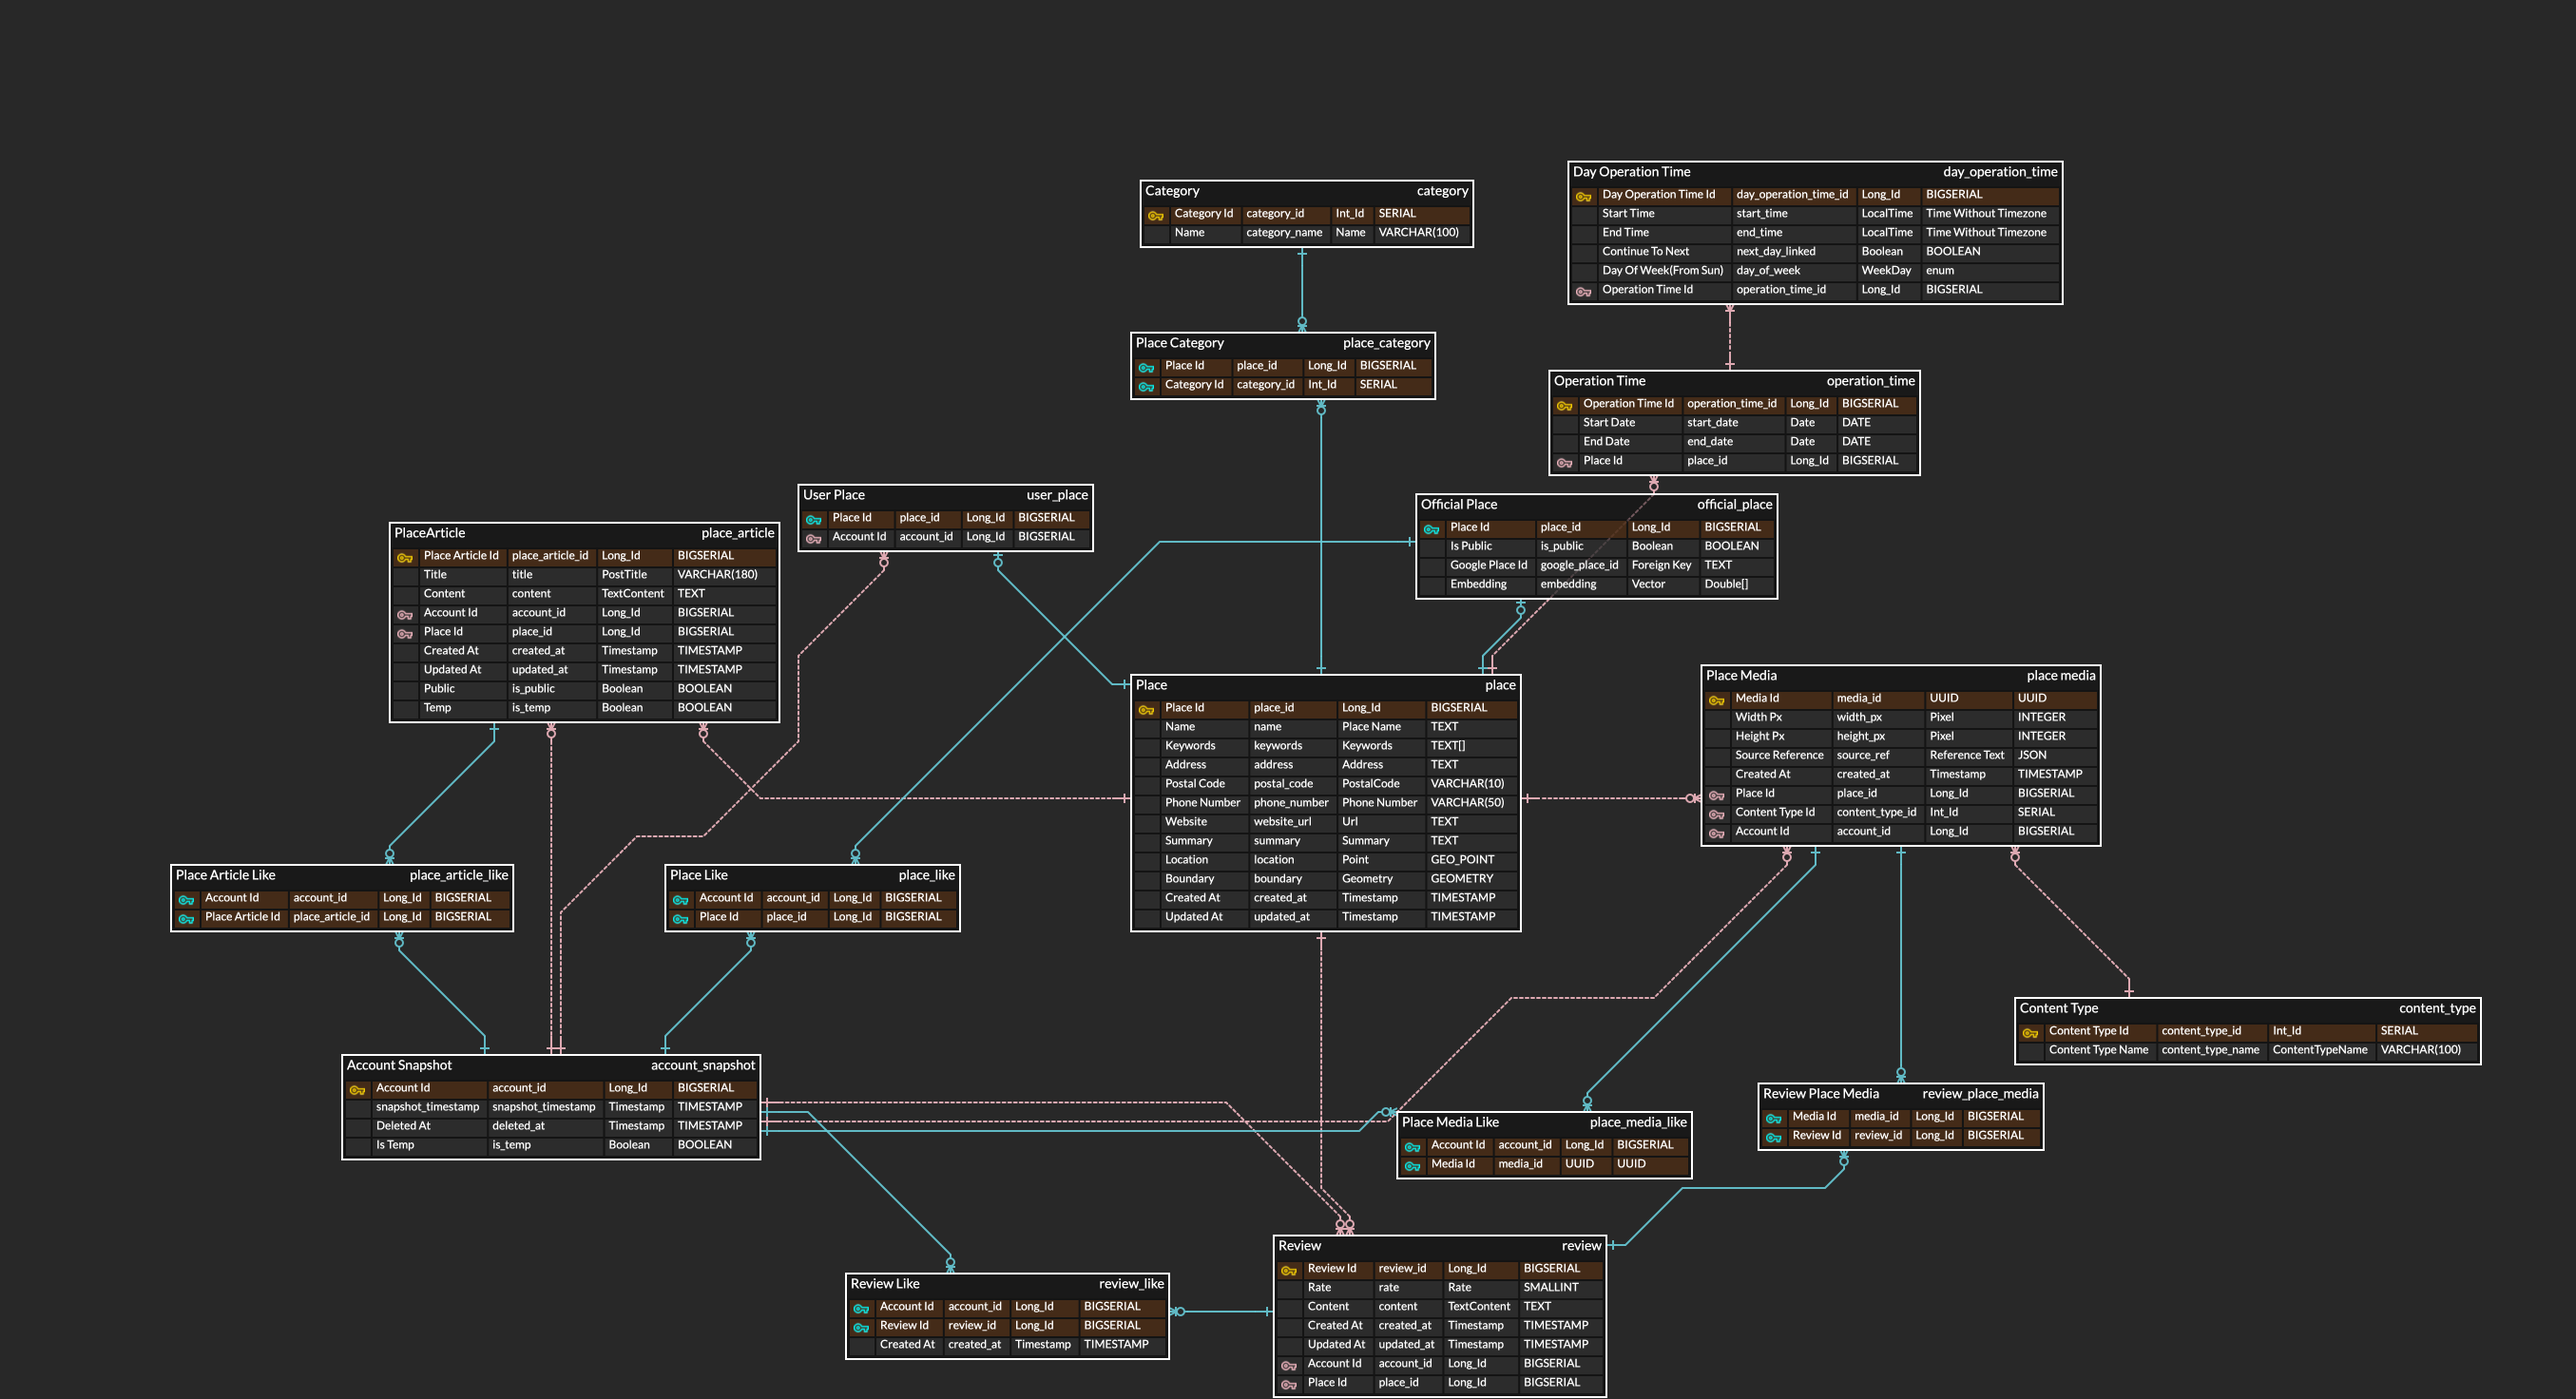
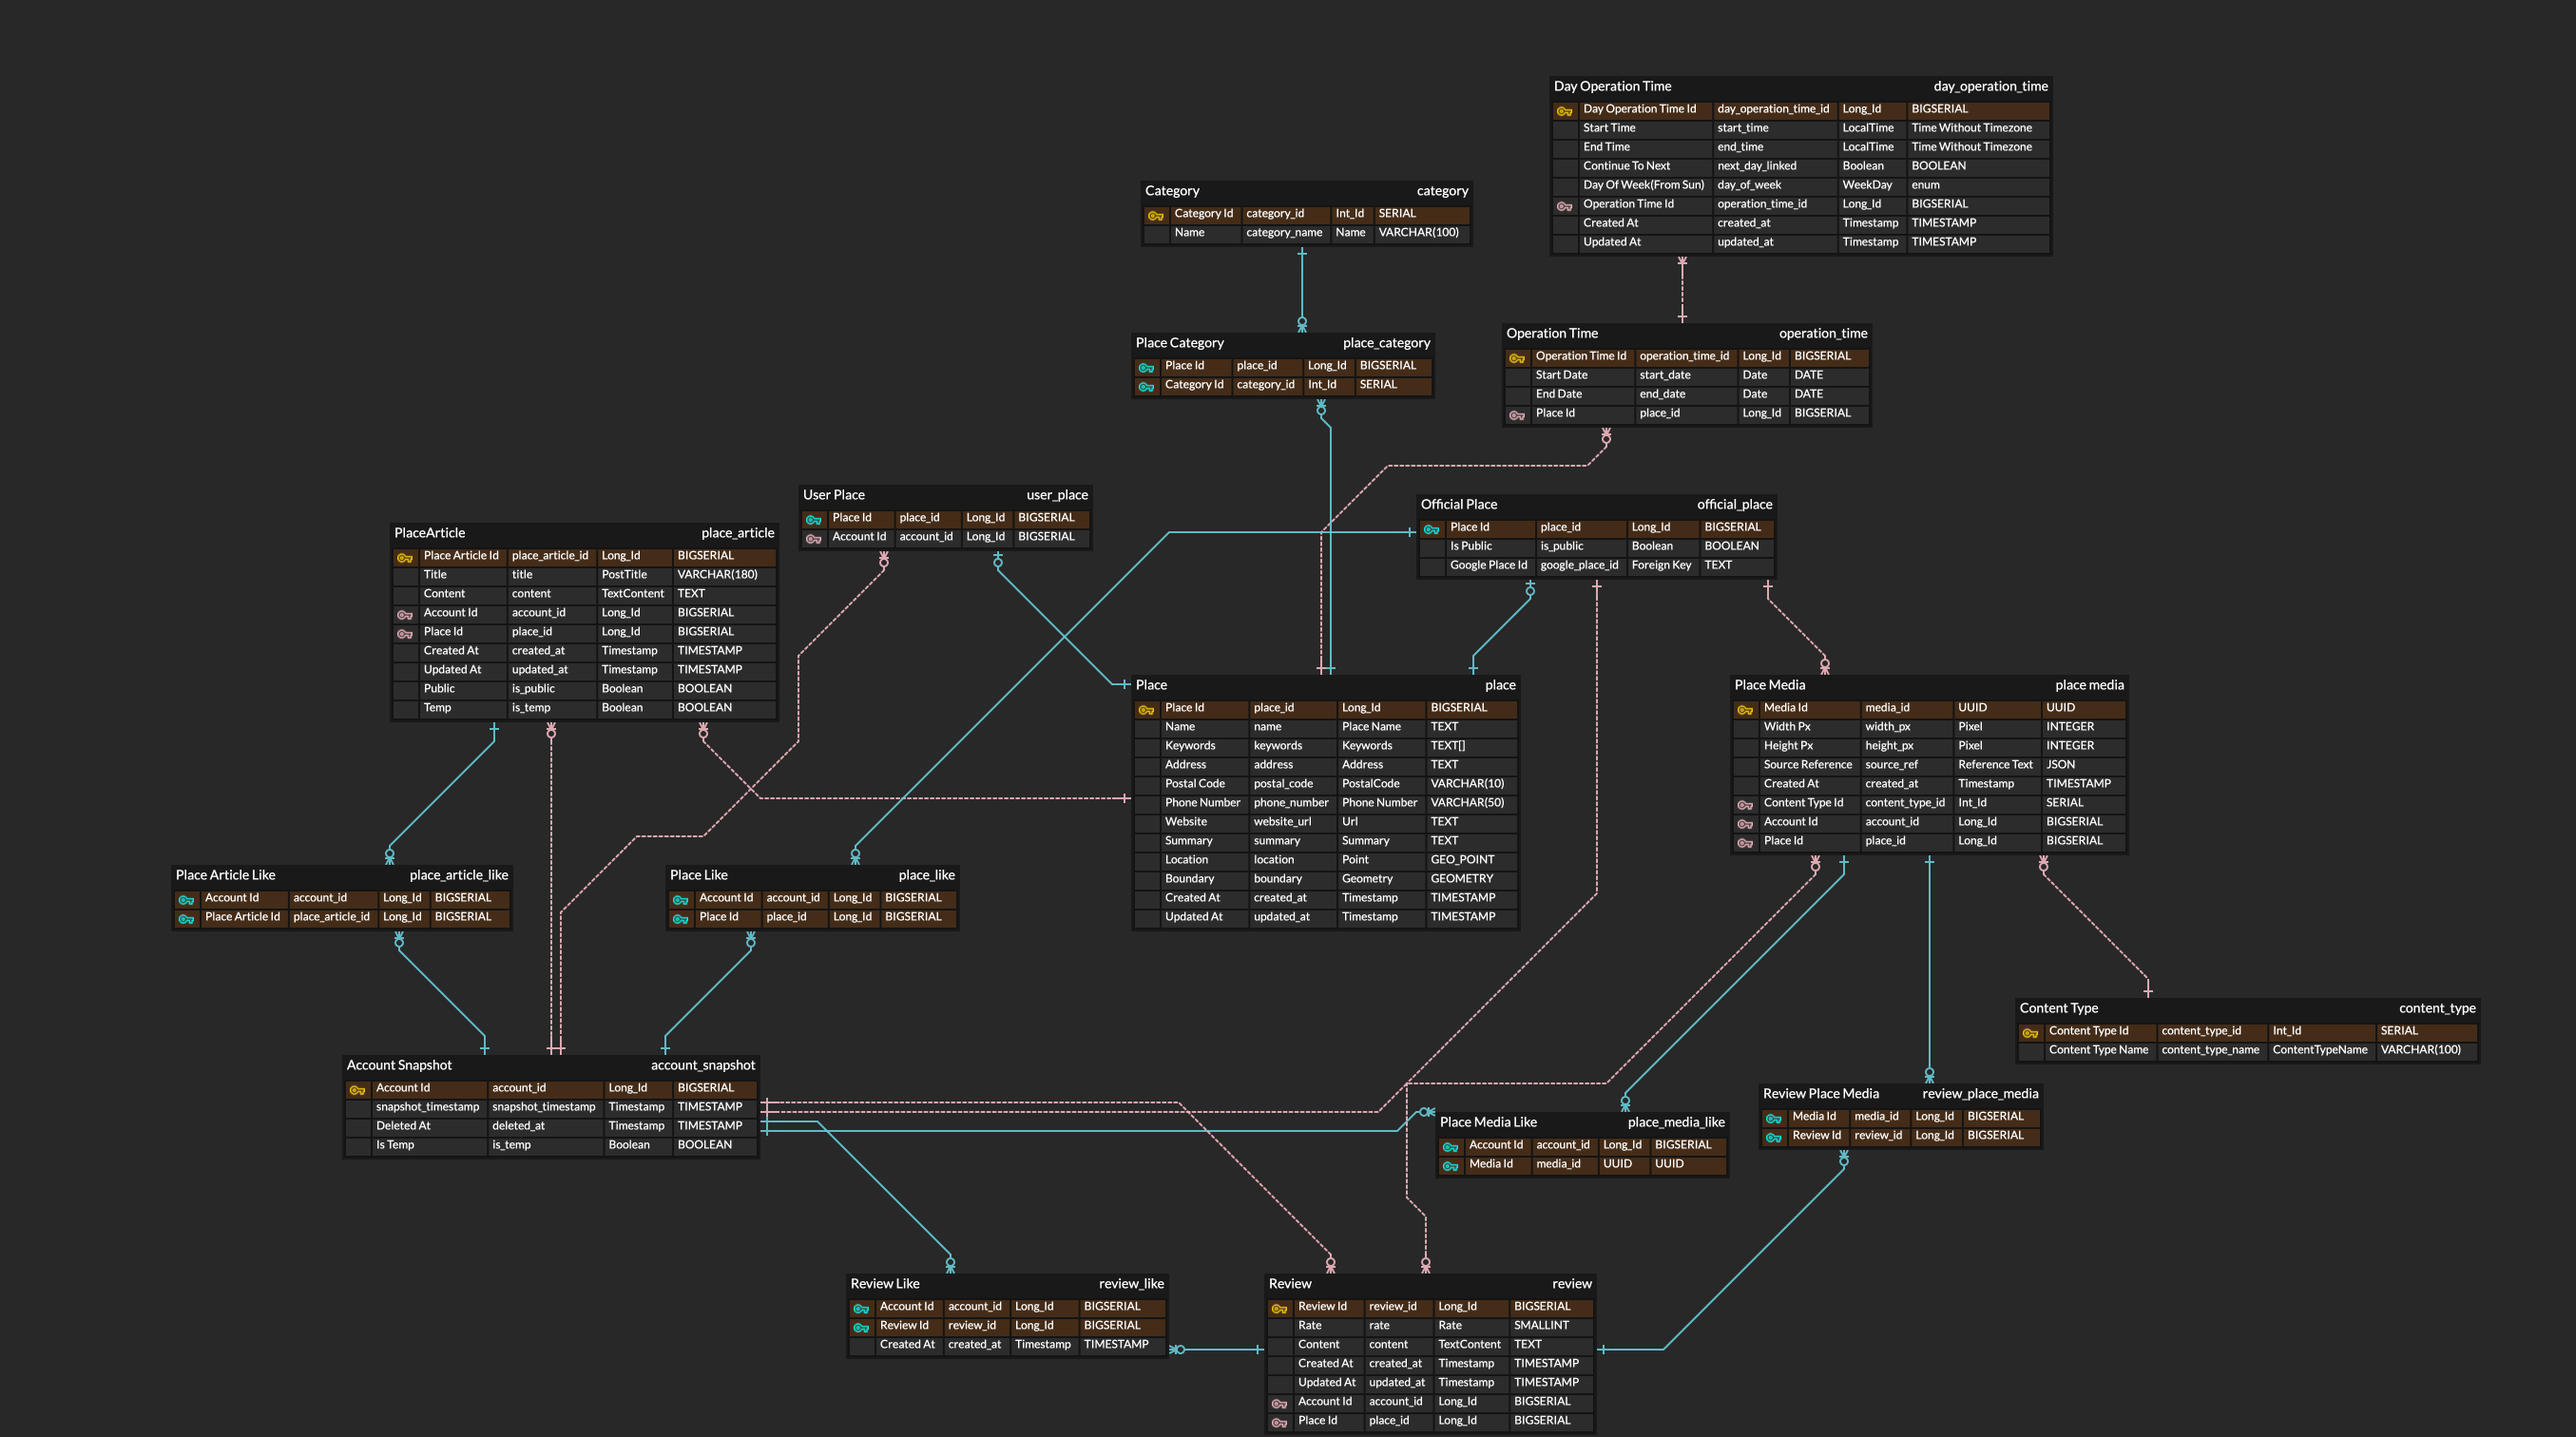
remove : embedding column from place table

diff --git a/backend/services/place/place_service/src/main/java/click/porito/managed_travel/place/place_service/repository/jpa/entity/OfficialPlaceEntity.java b/backend/services/place/place_service/src/main/java/click/porito/managed_travel/place/place_service/repository/jpa/entity/OfficialPlaceEntity.java
@@ -1,11 +1,9 @@
 package click.porito.managed_travel.place.place_service.repository.jpa.entity;
 
-import com.vladmihalcea.hibernate.type.array.DoubleArrayType;
 import jakarta.persistence.*;
 import lombok.Getter;
 import lombok.NoArgsConstructor;
 import lombok.Setter;
-import org.hibernate.annotations.Type;
 
 import java.util.List;
 
@@ -20,10 +18,6 @@ public class OfficialPlaceEntity extends PlaceEntity {
 
     @Column(name = "google_place_id", unique = true)
     private String googlePlaceId;
-
-    @Type(DoubleArrayType.class)
-    @Column(name = "embedding", columnDefinition = "double precision[]")
-    private double[] embedding;
 
     @OneToMany(mappedBy = "placeEntity", fetch = FetchType.LAZY,
             cascade = CascadeType.ALL, orphanRemoval = true

diff --git a/backend/services/place/place_service/src/main/java/click/porito/managed_travel/place/place_service/repository/jpa/entity/OperationTimeEntity.java b/backend/services/place/place_service/src/main/java/click/porito/managed_travel/place/place_service/repository/jpa/entity/OperationTimeEntity.java
@@ -3,10 +3,7 @@ package click.porito.managed_travel.place.place_service.repository.jpa.entity;
 import jakarta.persistence.*;
 import lombok.Data;
 import lombok.NoArgsConstructor;
-import org.springframework.data.annotation.CreatedDate;
-import org.springframework.data.annotation.LastModifiedDate;
 
-import java.time.Instant;
 import java.time.LocalDate;
 import java.util.List;
 
